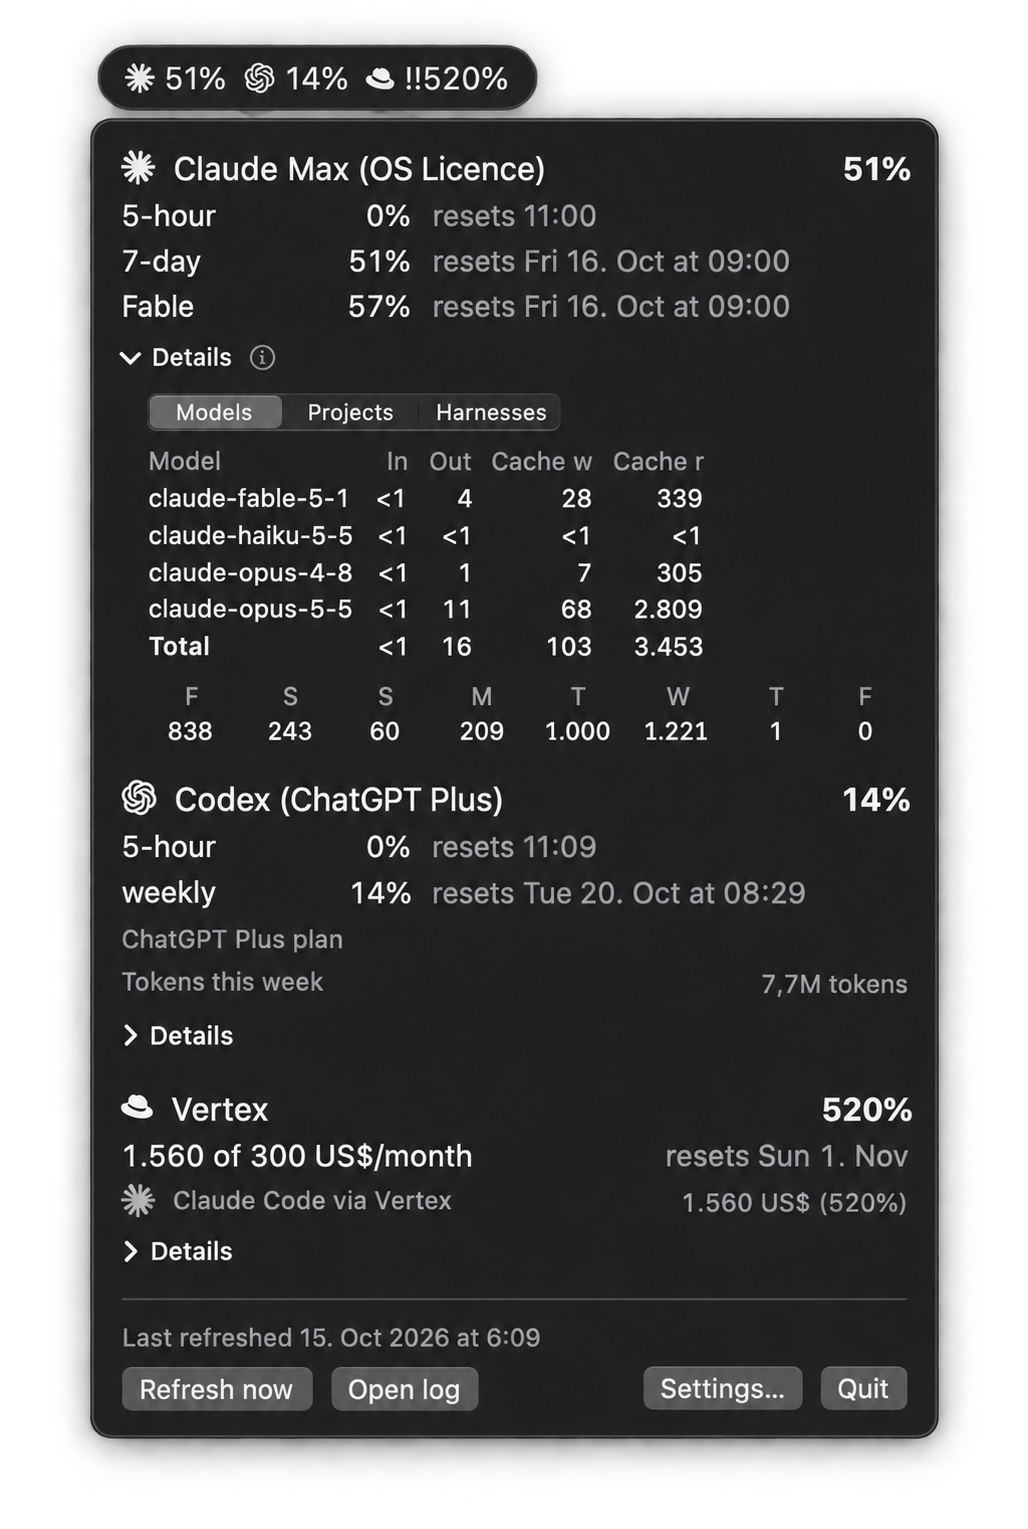
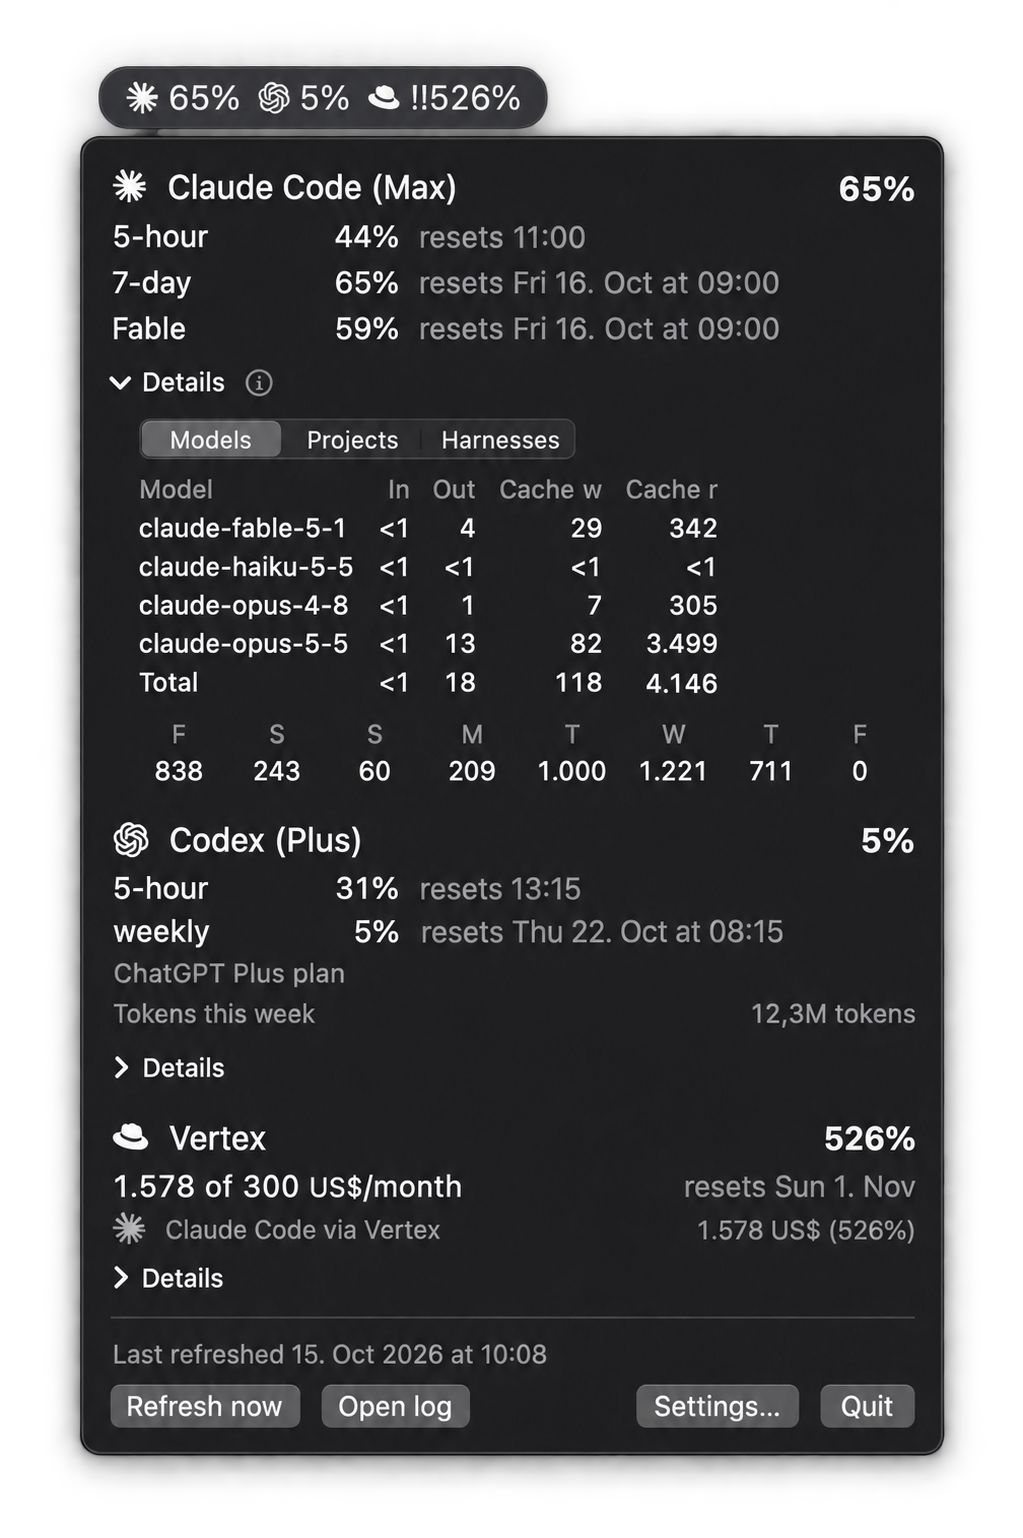
docs(readme): user-oriented intro and feature list, new screenshot
The README now opens with a short first-person intro and a compact
"What it does" list aimed at users; the detailed account and budget
explanations move to their own section further down. The dropdown
screenshot shows the current release, and a sponsor note links to the
GitHub Sponsors page, which .github/FUNDING.yml also adds to the repo
page.

Assisted-By: 🤖 Claude Code

Changed region(s): [[0.0606, 0.0, 0.9394, 0.9529], [0.7273, 0.4918, 0.7576, 0.5226]]

diff --git a/README.md b/README.md
@@ -1,23 +1,28 @@
 <h1><img src="Resources/icons/macos/AgentMeter.png" alt="AgentMeter app icon" width="80" align="left">AgentMeter<br><sub><sup>Every agent, every plan, one menu bar</sup></sub></h1>
 
-A macOS menu bar app that shows how much of your coding-agent usage limits you have used, across accounts with different pricing models.
+I use Claude Code on a Max plan, Codex on ChatGPT Plus and Claude through Vertex AI on a company budget. AgentMeter puts all of them in the menu bar: how much of each limit or budget is used, and when it resets. You see it before a rate limit stops a session or the Vertex spend runs past its budget, without opening a single dashboard.
 
 <br clear="left">
 
 <p align="center">
-  <img src="docs/images/agentmeter-dropdown.png" alt="AgentMeter in the menu bar with its dropdown open: a Claude Max subscription at 51% of its 7-day limit with a per-model token breakdown and a per-day trend, a Codex account on a ChatGPT Plus plan at 14% of its weekly limit, and a Vertex budget at 520% of its monthly budget" width="420">
+  <img src="docs/images/agentmeter-dropdown.png" alt="AgentMeter in the menu bar with its dropdown open: a Claude Max subscription at 65% of its 7-day limit with a per-model token breakdown and a per-day trend, a Codex account on a ChatGPT Plus plan at 5% of its weekly limit, and a Vertex budget at 526% of its monthly budget" width="420">
 </p>
 
-Each entry in the bar is an icon and a percentage. Click it for the details.
+## What it does
 
-- **Subscription accounts** (Claude Code on a Claude Pro or Max plan) show the real 5-hour and 7-day utilization that Anthropic reports, plus model-specific weekly limits such as the one for Fable. The bar shows the 7-day window.
-- **Token-based accounts** (Google Vertex AI or the OpenAI API) show spend in USD, computed from the local usage data of Claude Code, Codex and OpenCode with a built-in price table you can override, measured against a weekly or monthly budget you set. An account either has its own budget or belongs to a budget group. An account stands for who pays, not for a harness: a Vertex account collects Vertex usage from Claude Code and from OpenCode.
-- **Codex subscription accounts** (Codex on a ChatGPT plan) show the plan's limits: every window of the plan (for example 5-hour and weekly on Plus, 30-day on Free) with its percent and reset time. The bar shows the longest window. The limits come live from the ChatGPT usage service, so usage on other machines and in the cloud counts too. When the service cannot be reached, or the Codex sign-in has expired, the last limits Codex recorded on this Mac are shown, marked stale. The dropdown also lists the tokens used through the plan this week, with the same breakdown.
-- **Budget groups** put one or more token-based accounts under one shared budget, either weekly or monthly. A weekly budget lines up with your subscription's 7-day reset, or with a weekday and hour you choose. A monthly budget runs from midnight on the 1st to the end of the calendar month in local time, which suits a company spending limit granted per month.
-- **Member shares.** A group member can also appear in the bar on its own, showing its spend as a percent of the group budget. It sits right after its group, or in the group's place when the group itself is hidden.
-- The dropdown lists every account and group with its reset time, a per-model breakdown and a per-day trend. macOS notifications fire once when usage crosses one of your thresholds.
+- **Claude Code on Pro or Max:** the real 5-hour and 7-day usage Anthropic reports, plus model limits such as Fable's.
+- **Codex on a ChatGPT plan:** every plan window with its reset time, live from ChatGPT, so usage on other machines counts too.
+- **Pay-per-token accounts** (Vertex AI, OpenAI API): spend in US dollars against a weekly or monthly budget you set, priced from your agents' local logs.
+- **Shared budgets:** several accounts under one budget, for example a company's monthly spending limit.
+- **Details on click:** usage per model, project or agent tool, with a daily trend.
+- **Alerts:** a notification when usage crosses your thresholds (80% and 100% by default). In the bar, `⚠` means close to the limit, `‼` means over it, and `~` means the value may be out of date.
+- **Your layout:** pick which entries show in the bar and in which order.
+- **Local first:** AgentMeter reads your agents' files on this Mac. Apart from the usage checks with Anthropic and ChatGPT, it makes no network calls on its own.
 
-In the bar, `⚠` marks an entry at or above its lower notification threshold (80% by default), `‼` marks 100% or more, and `~` marks a value that could not be refreshed and may be out of date.
+It works with Claude Code, Codex and OpenCode, on macOS 14 or newer with Apple Silicon.
+
+> [!TIP]
+> AgentMeter is free and open source. If it saved you from a surprise rate limit, consider [sponsoring it on GitHub](https://github.com/sponsors/rhuss). It keeps the lights on, and the notarization paid.
 
 ## Status
 
@@ -111,6 +116,17 @@ The settings window has six tabs:
 - **About**: the running build (version and build number, the commit it was built from, build date and signing), what changed since the previous release with a link to the release notes, and links to the GitHub repository, the issue tracker and the [sponsor page](https://github.com/sponsors/rhuss).
 
 Every account and group has one [Font Awesome Free](https://fontawesome.com) icon, chosen from a searchable picker. New entries start with a default: the Claude icon for subscriptions, the Google icon for Vertex accounts, the OpenAI icon for OpenAI and Codex subscription accounts, and a wallet for groups. Several entries may share an icon; the dropdown and settings show each icon next to its name. Older configuration files with text labels still load: the labels are ignored and entries without an icon get the default.
+
+## Accounts and budgets
+
+Each entry in the bar is an icon and a percentage. Click it for the details.
+
+- **Subscription accounts** (Claude Code on a Claude Pro or Max plan) show the real 5-hour and 7-day utilization that Anthropic reports, plus model-specific weekly limits such as the one for Fable. The bar shows the 7-day window.
+- **Token-based accounts** (Google Vertex AI or the OpenAI API) show spend in USD, computed from the local usage data of Claude Code, Codex and OpenCode with a built-in price table you can override, measured against a weekly or monthly budget you set. An account either has its own budget or belongs to a budget group. An account stands for who pays, not for a harness: a Vertex account collects Vertex usage from Claude Code and from OpenCode.
+- **Codex subscription accounts** (Codex on a ChatGPT plan) show the plan's limits: every window of the plan (for example 5-hour and weekly on Plus, 30-day on Free) with its percent and reset time. The bar shows the longest window. The limits come live from the ChatGPT usage service, so usage on other machines and in the cloud counts too. When the service cannot be reached, or the Codex sign-in has expired, the last limits Codex recorded on this Mac are shown, marked stale. The dropdown also lists the tokens used through the plan this week, with the same breakdown.
+- **Budget groups** put one or more token-based accounts under one shared budget, either weekly or monthly. A weekly budget lines up with your subscription's 7-day reset, or with a weekday and hour you choose. A monthly budget runs from midnight on the 1st to the end of the calendar month in local time, which suits a company spending limit granted per month.
+- **Member shares.** A group member can also appear in the bar on its own, showing its spend as a percent of the group budget. It sits right after its group, or in the group's place when the group itself is hidden.
+
 
 ## How it works
 

diff --git a/Resources/icons/README.md b/Resources/icons/README.md
@@ -1,4 +1,4 @@
-# AgentMeter — Watchful Agent icon set
+# AgentMeter: Watchful Agent icon set
 
 Selected proposal: 5 (Watchful Agent). Transparent PNG artwork.
 
@@ -7,7 +7,7 @@ Selected proposal: 5 (Watchful Agent). Transparent PNG artwork.
 - `masters/`: original selected concept and refined app/web master PNGs (1254 × 1254).
 - `macos/AgentMeter.icns`: multi-resolution macOS app icon.
 - `macos/AgentMeter.png`: 1024 × 1024 app PNG.
-- `macos/AgentMeter.iconset/`: standard 16–512 point PNGs at 1× and 2× resolution.
+- `macos/AgentMeter.iconset/`: standard 16 to 512 point PNGs at 1× and 2× resolution.
 - `web/favicon.ico`: 16, 32, 48, 64, 128 and 256 pixel favicon entries.
 - `web/favicon-*.png`: individual website icons.
 - `web/apple-touch-icon.png`: 180 × 180 website icon.
